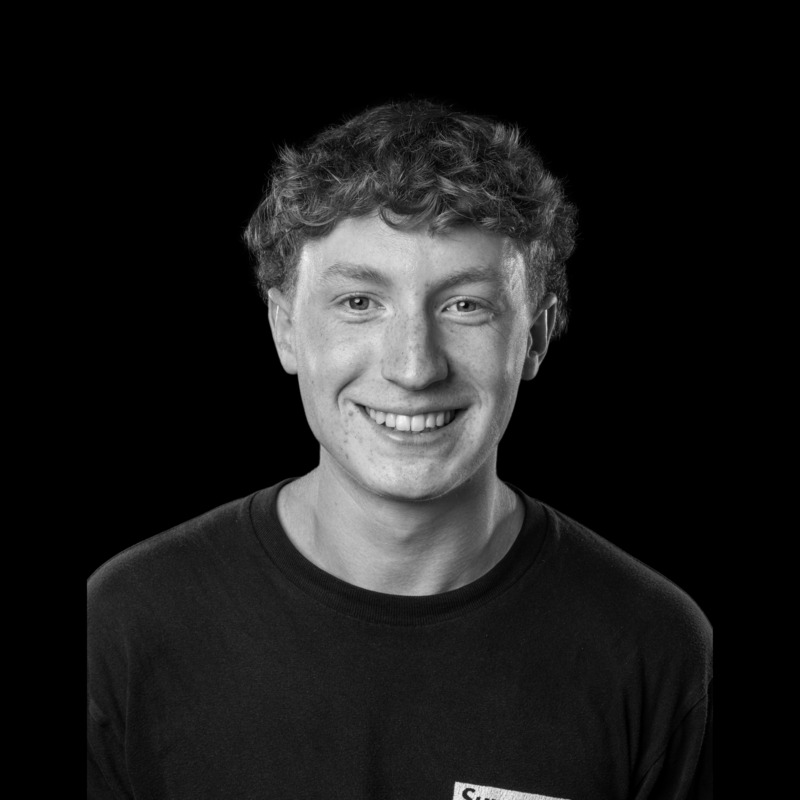
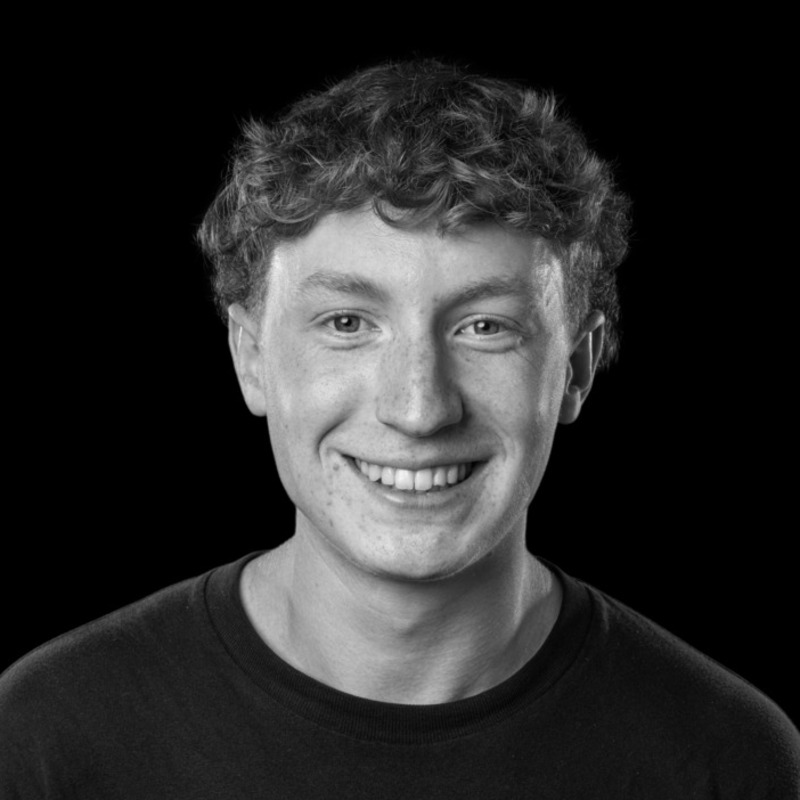
feat: default language to English and apply slight zoom to Arthur portrait

Changed region(s): [[0.0, 0.0625, 1.0, 1.0], [0.5625, 0.9688, 0.6875, 1.0]]

diff --git a/src/LanguageContext.tsx b/src/LanguageContext.tsx
@@ -132,10 +132,36 @@ const translations: Record<Language, Record<string, string>> = {
 const LanguageContext = createContext<LanguageContextType | undefined>(undefined);
 
 export function LanguageProvider({ children }: { children: React.ReactNode }) {
-  const [lang, setLang] = useState<Language>('FR');
+  const [lang, setLangState] = useState<Language>(() => {
+    try {
+      const saved = localStorage.getItem('polymath_lang');
+      if (saved === 'FR' || saved === 'EN') return saved;
+    } catch {
+      // ignore
+    }
+    return 'EN';
+  });
+
+  const setLang = (newLang: Language) => {
+    setLangState(newLang);
+    try {
+      localStorage.setItem('polymath_lang', newLang);
+      document.documentElement.lang = newLang.toLowerCase();
+    } catch {
+      // ignore
+    }
+  };
+
+  React.useEffect(() => {
+    try {
+      document.documentElement.lang = lang.toLowerCase();
+    } catch {
+      // ignore
+    }
+  }, [lang]);
 
   const t = (key: string): string => {
-    return translations[lang]?.[key] ?? translations.FR?.[key] ?? translations.EN?.[key] ?? key;
+    return translations[lang]?.[key] ?? translations.EN?.[key] ?? translations.FR?.[key] ?? key;
   };
 
   return (

diff --git a/index.html b/index.html
@@ -1,7 +1,6 @@
 <!doctype html>
-<html lang="fr" style="background-color: #000000; color: #ffffff;">
+<html lang="en" style="background-color: #000000; color: #ffffff;">
   <head>
-    <link rel="icon" type="image/png" href="/postit.png">
     <meta charset="UTF-8" />
     <meta name="viewport" content="width=device-width, initial-scale=1.0, viewport-fit=cover" />
     <title>POLYMATHE — Nous faisons de la robotique</title>
